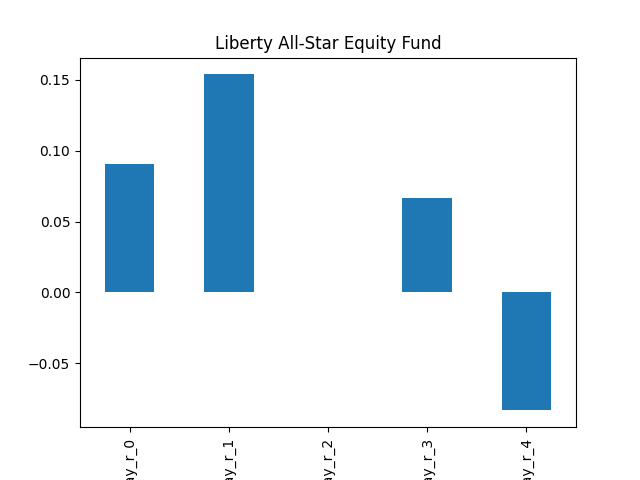
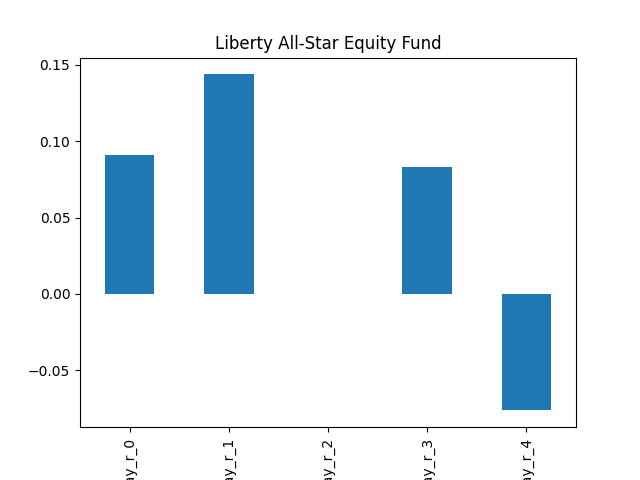
add daily screener

diff --git a/README.md b/README.md
@@ -1,26 +1,43 @@
 # dividend-shorter
 
-bet on falling prices on payday **2026-01-21**.
+bet on falling prices on payday **2026-01-22**.
 
 ## Signale
 
-| Ticker   |   Divid Rate |   Close |   Volume |   last_close_volume |   Divid % | 5_Days_pos   | above_SMA_50   |
-|:---------|-------------:|--------:|---------:|--------------------:|----------:|:-------------|:---------------|
-| SLVO     |         5.79 |  107.41 |   246900 |            26519529 |      5.39 | True         | True           |
+| Ticker   |   Divid Rate |   Close |     Volume |   last_close_volume |   Divid % | 5_Days_pos   | above_SMA_50   |
+|:---------|-------------:|--------:|-----------:|--------------------:|----------:|:-------------|:---------------|
+| USA      |         0.18 |    6.31 | 1.2027e+06 |             7589037 |      2.85 | False        | True           |
+| OCG      |         0.05 |    1.8  | 1.4733e+06 |             2651940 |      2.78 | False        | False          |
 
-## SLVO
+## USA
 
 ### Erwartung in R
 |      |   Day_r_0 |   Day_r_1 |   Day_r_2 |   Day_r_3 |   Day_r_4 |   Treffer |
 |:-----|----------:|----------:|----------:|----------:|----------:|----------:|
-| ohne |       0   |       0   |       0   |      -0.2 |      -0.3 |       151 |
-| mit  |       0.2 |       0.4 |      -0.1 |      -0.1 |      -0.5 |         1 |
+| ohne |       0.1 |       0.1 |       0   |       0.1 |      -0.1 |        70 |
+| mit  |      -0.1 |      -0.1 |      -0.1 |      -0.3 |      -0.5 |         4 |
 
 ### Ohne Filter
-![image info](./data/SLVO_box_all.png)
-![image info](./data/SLVO_median_all.png)
+![image info](./data/USA_box_all.png)
+![image info](./data/USA_median_all.png)
 
 ### Mit Filter
-![image info](./data/SLVO_box_filtered.png)
-![image info](./data/SLVO_median_filtered.png)
+![image info](./data/USA_box_filtered.png)
+![image info](./data/USA_median_filtered.png)
+
+## OCG
+
+### Erwartung in R
+|      |   Day_r_0 |   Day_r_1 |   Day_r_2 |   Day_r_3 |   Day_r_4 |   Treffer |
+|:-----|----------:|----------:|----------:|----------:|----------:|----------:|
+| ohne |       nan |       nan |       nan |       nan |       nan |         0 |
+| mit  |       nan |       nan |       nan |       nan |       nan |         0 |
+
+### Ohne Filter
+![image info](./data/OCG_box_all.png)
+![image info](./data/OCG_median_all.png)
+
+### Mit Filter
+![image info](./data/OCG_box_filtered.png)
+![image info](./data/OCG_median_filtered.png)
 

diff --git a/shorts.md b/shorts.md
@@ -1,3 +1,4 @@
-| Ticker   |   Divid Rate |   Close |   Volume |   last_close_volume |   Divid % | 5_Days_pos   | above_SMA_50   |
-|:---------|-------------:|--------:|---------:|--------------------:|----------:|:-------------|:---------------|
-| SLVO     |         5.79 |  107.41 |   246900 |            26519529 |      5.39 | True         | True           |
+| Ticker   |   Divid Rate |   Close |     Volume |   last_close_volume |   Divid % | 5_Days_pos   | above_SMA_50   |
+|:---------|-------------:|--------:|-----------:|--------------------:|----------:|:-------------|:---------------|
+| USA      |         0.18 |    6.31 | 1.2027e+06 |             7589037 |      2.85 | False        | True           |
+| OCG      |         0.05 |    1.8  | 1.4733e+06 |             2651940 |      2.78 | False        | False          |

diff --git a/data/OCG.md b/data/OCG.md
@@ -1,0 +1,13 @@
+### Erwartung in R
+|      |   Day_r_0 |   Day_r_1 |   Day_r_2 |   Day_r_3 |   Day_r_4 |   Treffer |
+|:-----|----------:|----------:|----------:|----------:|----------:|----------:|
+| ohne |       nan |       nan |       nan |       nan |       nan |         0 |
+| mit  |       nan |       nan |       nan |       nan |       nan |         0 |
+
+### Ohne Filter
+![image info](./data/OCG_box_all.png)
+![image info](./data/OCG_median_all.png)
+
+### Mit Filter
+![image info](./data/OCG_box_filtered.png)
+![image info](./data/OCG_median_filtered.png)

diff --git a/data/USA.md b/data/USA.md
@@ -1,7 +1,7 @@
 ### Erwartung in R
 |      |   Day_r_0 |   Day_r_1 |   Day_r_2 |   Day_r_3 |   Day_r_4 |   Treffer |
 |:-----|----------:|----------:|----------:|----------:|----------:|----------:|
-| ohne |       0.1 |       0.2 |       0   |       0.1 |      -0.1 |        69 |
+| ohne |       0.1 |       0.1 |       0   |       0.1 |      -0.1 |        70 |
 | mit  |      -0.1 |      -0.1 |      -0.1 |      -0.3 |      -0.5 |         4 |
 
 ### Ohne Filter
